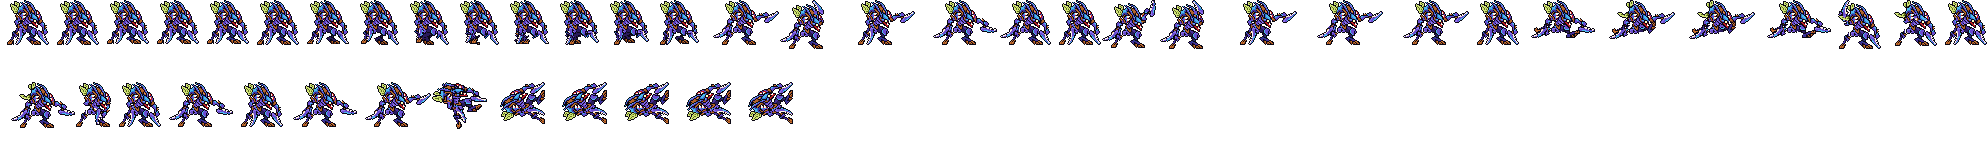
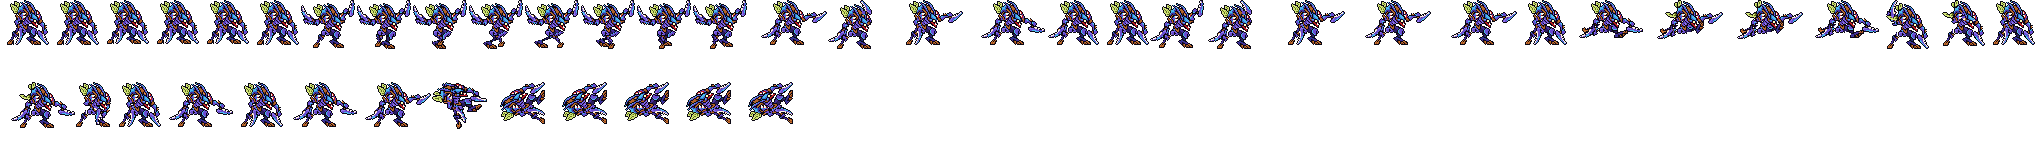
Kha'Zix run v4: both claws raised at his sides (Codex's arm units turned whole), the legs crossing in plain sight, their gaps left open (「修一下吧 还有问题」)

Changed region(s): [[0.0, 0.0, 0.9985, 0.3137], [0.0, 0.549, 0.4056, 0.8366]]

diff --git a/tools/art/fix_khazix_strips.py b/tools/art/fix_khazix_strips.py
@@ -13,11 +13,13 @@ death (rig_samira.py's): frames 1-2 Codex's (struck, knocked back), then the WHO
 image left, the bent insect legs up at the right - first a row above the ground (the bounce), then on it.
 The run was Codex's rows of the legs shifted in place - the feet slid, the legs never crossed, and the two scythe
 claws that hang to the ground in the design (they read as two more legs) stood still: the user, 「走路时腿有点奇怪啊 这是
-交叉步？」. RUN rebuilds it from the design (rig_samira.py's accepted run): the two insect legs cut out (NEAR_LEG, the
-image-left one, and FAR_LEG under the body), each swung from its hip by row shear with the foot moved whole (STRIDE: the
-feet cross, each lifted while it passes under the body, the lift spread along the shin so the foot never comes off),
-the far leg one shade darker, the body (everything else, the pasted head with it) bobbing a row on each landing, and
-the two claws (BACK_CLAW, FRONT_CLAW: their parts under CLAW_ROW) lifted in turn off the ground as the legs pass.
+交叉步？」, then 「腿部移动时缺失模型看不到？」 and 「修一下吧 还有问题」 on a version that only lifted the claws in turn (the legs
+still hid behind them and their gaps were filled into a dark blob). RUN builds it as League's run: both claws raised at
+his sides, the blades up - Codex's own arm units (its masks and shoulder joints) turned whole by 135 degrees (FA, NA) -
+so the two insect legs show; the legs (Codex's masks, the image-left one tucked TUCK columns in under the body) swung
+from their hips by row shear with the foot whole (CYCLE: the feet cross, each lifted while it passes under the body,
+mapped target row -> source row so a stretched leg never breaks), in the design's own colours (the mid leg is already
+a shade darker than the lit left one), the body a row up between the landings; the gaps between the legs stay open.
 Reads codex_strips/khazix_<tag>.png (8x) and khazix_cells.json, writes assets/source/native/khazix_<tag>.png (8x) and
 khazix_cells.json for tools/art/import_native.py. --check only prints what would change.
 """
@@ -39,6 +41,7 @@ import rigkit as K  # noqa: E402
 SRC = os.path.join(ROOT, "assets", "source", "khazix", "codex_strips")
 OUT = os.path.join(ROOT, "assets", "source", "native")
 DESIGN = os.path.join(OUT, "khazix_native.png")
+HEAD = os.path.join(OUT, "khazix_head_1x.png")     # the head pasted in every frame (the strips pack's)
 TAGS = ["idle", "run", "attack", "skill", "skill2", "ult", "hit", "dead"]
 Z = 8
 PIVOT = (64, 88)                 # the design's standing point (the soles on row 99)
@@ -50,99 +53,112 @@ DEAD = ["codex", "codex", ("tilt", 45, -6), ("lying", 1, -8), ("lying", 0, -8), 
         ("lying", 0, -8)]
 
 
-# ---- the run (the design's canvas: soles on row 99)
-NEAR_HIP, NEAR_FOOT = 84, 95        # the image-left leg: from its hip (hidden under the body) to the toe claws' rows
-FAR_HIP, FAR_FOOT = 89, 95
-CLAW_ROW = 88                       # the claws' parts from this row down lift off the ground
-# per frame: near foot dx, near lift, far foot dx, far lift, back-claw lift, front-claw lift, body bob (rows down)
-STRIDE = [(0, 0, 0, 0, 0, 0, 1), (4, 1, -3, 0, 2, 0, 0), (9, 2, -7, 0, 3, 0, 0), (14, 1, -11, 0, 2, 0, 0),
-          (16, 0, -14, 0, 0, 0, 1), (12, 0, -10, 1, 0, 2, 0), (7, 0, -6, 2, 0, 3, 0), (3, 0, -2, 1, 0, 2, 0)]
-BONE = {(242, 220, 212), (255, 246, 240), (200, 168, 168)}     # the claws' edge colours (never part of a leg)
+# ---- the run (the design's canvas: soles on row 99; the masks are Codex's, codex_strips/raw/build_khazix_strips.py)
+def _rows(spec, op):
+    m = np.zeros(op.shape, bool)
+    for y, (x0, x1) in spec.items():
+        m[y, x0:x1 + 1] = True
+    return m & op
 
 
-def leg_masks(d):
-    op = d[..., 3] > 0
-    yy, xx = np.mgrid[0:d.shape[0], 0:d.shape[1]]
-    bone = np.zeros(op.shape, bool)
-    for c in BONE:
-        bone |= (d[..., :3] == c).all(-1)
-    near = op & ~bone & (((yy >= NEAR_HIP) & (xx <= 55)) | ((yy >= 82) & (yy < NEAR_HIP) & (xx >= 52) & (xx <= 55)))
-    far = op & ~bone & (yy >= FAR_HIP) & (xx >= 63) & (xx <= 80)
-    back = op & ~near & ~far & (yy >= CLAW_ROW) & (xx >= 53) & (xx <= 63)
-    front = op & ~near & ~far & (yy >= CLAW_ROW) & (xx >= 75)
-    return near, far, back, front
+ARM_FAR = {**{y: (55, 60) for y in range(75, 77)}, **{y: (55, 61) for y in range(77, 80)},
+           **{y: (56, 62) for y in range(80, 82)}, **{y: (57, 64) for y in range(82, 84)},
+           **{y: (57, 65) for y in range(84, 86)}, **{y: (57, 64) for y in range(86, 88)}, 88: (58, 65), 89: (58, 64),
+           90: (58, 63), 91: (58, 62), 92: (57, 62), 93: (58, 61), 94: (57, 61), 95: (57, 60), 96: (57, 60),
+           97: (56, 59), 98: (56, 59), 99: (56, 58)}          # the image-left arm with its claw, from the shoulder
+ARM_NEAR = {**{y: (78, 84) for y in range(75, 78)}, **{y: (79, 87) for y in range(78, 82)},
+            **{y: (81, 87) for y in range(82, 85)}, **{y: (77, 86) for y in range(85, 88)}, 88: (77, 85), 89: (77, 84),
+            90: (79, 84), 91: (80, 85), 92: (80, 86), 93: (81, 86), 94: (81, 87), 95: (82, 87), 96: (83, 88),
+            97: (84, 88), 98: (85, 88), 99: (86, 88)}         # the image-right arm with its claw
+LEG_LEFT = {**{y: (56, 61) for y in range(83, 86)}, **{y: (52, 59) for y in range(86, 90)},
+            **{y: (50, 56) for y in range(90, 95)}, **{y: (47, 54) for y in range(95, 100)}}
+LEG_MID = {83: (68, 75), **{y: (68, 77) for y in range(84, 89)}, **{y: (64, 77) for y in range(89, 94)},
+           **{y: (64, 81) for y in range(94, 100)}}
+# the hips the image-left arm covered in the design: kept on the body (without the claw's edge colour) so the raised
+# arm leaves no notch and the left leg joins the body
+HIP_BRIDGE = {**{y: (61, 67) for y in range(81, 84)}, **{y: (59, 67) for y in range(83, 87)}}
+SHOULDER_FAR, SHOULDER_NEAR = (56.5, 75.5), (79.5, 75.5)
+FA, NA = -135, 135        # the claws raised at his sides, the blades up (League's run): each arm turned whole
+TUCK = 3                  # the image-left leg's hip moved in under the body (the idle's stance is wide)
+LEGS = {"left": (LEG_LEFT, 84, 95), "mid": (LEG_MID, 84, 94)}   # mask, hip row, ankle row
+# per frame: left (dx, lift), mid (dx, lift), the body up (rows): the feet cross - the left (lit) foot back in frame 1
+# and forward in frame 5, the mid (shaded) one the other way, each lifted while it passes under the body; the body a
+# row up between the landings
+CYCLE = [((0, 0), (0, 0), 0), ((6, 2), (-5, 0), 1), ((12, 3), (-10, 0), 1), ((17, 2), (-15, 0), 1),
+         ((20, 0), (-20, 0), 0), ((15, 0), (-14, 2), 1), ((10, 0), (-8, 3), 1), ((5, 0), (-3, 2), 1)]
+BONE = [(200, 168, 168), (242, 220, 212), (255, 246, 240)]       # the claws' edge colours
+WING_GREEN = [(94, 110, 28), (156, 184, 58), (210, 228, 122)]
 
 
-def darker(d):
-    """Each colour -> the design's next darker colour of a like hue (the outline stays)."""
-    op = d[..., 3] > 0
-    pal = np.unique(d[op][:, :3], axis=0).astype(int)
-    lum = pal @ np.array([299, 587, 114]) / 1000
-    out = {}
-    for c, l in zip(pal, lum):
-        cand = [(p, pl) for p, pl in zip(pal, lum) if pl < l - 6]
-        if l < 30 or not cand:
-            out[tuple(c)] = tuple(c)
-            continue
-        cn = c / max(1, c.sum())
-        out[tuple(c)] = tuple(min(cand, key=lambda q: 400 * np.abs(q[0] / max(1, q[0].sum()) - cn).sum() + (l - q[1]))[0])
-    return out
+def _colours(a, cols):
+    m = np.zeros(a.shape[:2], bool)
+    for c in cols:
+        m |= (a[..., :3] == np.array(c, np.uint8)).all(-1) & (a[..., 3] > 0)
+    return m
 
 
-def swung(d, mask, hip, foot, dx, lift, drop, shade=None):
-    """The leg's squares sheared from the hip: rows above `foot` moved in proportion (dx and lift), the foot whole."""
-    out = np.zeros_like(d)
-    for r, c in zip(*np.nonzero(mask)):
-        t = min(1.0, max(0, r - hip) / max(1, foot - hip))
-        sh = int(math.floor(dx * t + 0.5))
-        up = int(math.floor(lift * t + 0.5))
-        rr, cc = r - up + drop, c + sh
-        if 0 <= rr < d.shape[0] and 0 <= cc < d.shape[1]:
-            px = d[r, c].copy()
-            if shade is not None:
-                px[:3] = shade[tuple(int(v) for v in px[:3])]
-            out[rr, cc] = px
-    return out
+class Run:
+    def __init__(self, d, head, ink):
+        op = d[..., 3] > 0
+        self.d, self.ink = d, ink
+        hm = head[..., 3] > 0
+        far, near = _rows(ARM_FAR, op) & ~hm, _rows(ARM_NEAR, op) & ~hm
+        left = _rows(LEG_LEFT, op) & ~(far | near | hm)
+        mid = _rows(LEG_MID, op) & ~(far | near | hm | left)
+        self.legs = {"left": (left, LEGS["left"][1], LEGS["left"][2]), "mid": (mid, LEGS["mid"][1], LEGS["mid"][2])}
+        bridge = _rows(HIP_BRIDGE, op) & ~hm & ~_colours(d, BONE)
+        base = d.copy()
+        base[far | near | left | mid] = 0
+        base[bridge] = d[bridge]
+        green = _colours(d, WING_GREEN)
+        ring = np.zeros_like(green)
+        for dy in (-1, 0, 1):
+            for dx in (-1, 0, 1):
+                ring |= np.roll(np.roll(green, dy, 0), dx, 1)
+        wing = green | (ring & _colours(d, [tuple(ink)]))
+        wing[69:] = False
+        wing[:, 61:] = False
+        self.wing = np.where(wing[..., None], base, 0).astype(np.uint8)
+        self.torso = base.copy()
+        self.torso[wing] = 0
+        self.far = K.turn(K.Part.from_canvas(d, far, SHOULDER_FAR), FA)
+        self.near = K.turn(K.Part.from_canvas(d, near, SHOULDER_NEAR), NA)
+        self.hm = hm
 
+    def leg(self, name, dx, lift, up, shift=0):
+        """The leg sheared from its hip (the foot whole), the hip rising `up` with the body and the foot `lift` off the
+        ground; each target row takes its source row (a stretched leg repeats a row instead of breaking)."""
+        mask, hip, ankle = self.legs[name]
+        ys, _ = np.nonzero(mask)
+        r0, r1 = int(ys.min()), int(ys.max())
+        t = lambda r: min(1.0, max(0.0, (r - hip) / max(1, ankle - hip)))
+        target = {r: r - int(math.floor(up * (1 - t(r)) + lift * t(r) + 0.5)) for r in range(r0, r1 + 1)}
+        out = np.zeros_like(self.d)
+        for y in range(min(target.values()), max(target.values()) + 1):
+            src = [r for r in range(r0, r1 + 1) if target[r] <= y]
+            r = max(src) if src else r0
+            sh = int(math.floor(dx * t(r) + 0.5)) + shift
+            for c in np.nonzero(mask[r])[0]:
+                if 0 <= c + sh < out.shape[1]:
+                    out[y, c + sh] = self.d[r, c]
+        return out
 
-def new_gaps_filled(a, d, bob, outline):
-    """Gaps the swung legs enclose (between a leg, a claw and the body: the background showed through - the user:
-    「腿部移动时缺失模型看不到？」) take the commonest colour round them; the design's own gaps (beside the jaw) stay."""
-    own = set()
-    for comp in K.holes(K.finish(d, outline, SOLES)):     # with its outline closed, as the idle is
-        own |= {(y + bob, x) for y, x in comp}
-    for comp in K.holes(a):
-        if own & set(comp):
-            continue
-        nb = {}
-        cs = set(comp)
-        for y, x in comp:
-            for dy, dx in K.N4:
-                q = (y + dy, x + dx)
-                if q not in cs and a[q][3] and tuple(int(v) for v in a[q][:3]) != tuple(outline):
-                    key = tuple(int(v) for v in a[q])
-                    nb[key] = nb.get(key, 0) + 1
-        col = np.array(max(nb, key=nb.get) if nb else tuple(outline) + (255,), np.uint8)
-        for y, x in comp:
-            a[y, x] = col
-    return a
-
-
-def run_frame(d, k, masks, shade):
-    near, far, back, front = masks
-    nd, nl, fd, fl, bl, frl, bob = STRIDE[k]
-    rest = d.copy()
-    rest[near | far | back | front] = 0
-    out = np.zeros_like(d)
-    K.put(out, swung(d, far, FAR_HIP, FAR_FOOT, fd, fl, bob, shade), 0, 0)
-    K.put(out, K.shifted(rest, 0, bob), 0, 0)
-    claw = lambda m, lift: K.shifted(np.where(m[..., None], d, 0).astype(np.uint8), 0, bob - lift)
-    K.put(out, claw(back, bl), 0, 0)
-    # the near leg over the back claw (it is the leg nearest the viewer), under the front claw
-    K.put(out, swung(d, near, NEAR_HIP, NEAR_FOOT, nd, nl, bob), 0, 0)
-    K.put(out, claw(front, frl), 0, 0)
-    out[SOLES + 1:] = 0
-    return out
+    def frame(self, k):
+        """Back to front: the shaded mid leg, the lit left leg, the wings, the raised far arm (over the wings, under
+        the torso), the torso with the pasted head, the raised near arm."""
+        (ldx, llift), (mdx, mlift), up = CYCLE[k]
+        out = np.zeros_like(self.d)
+        K.put(out, self.leg("mid", mdx, mlift, up), 0, 0)
+        K.put(out, self.leg("left", ldx, llift, up, TUCK), 0, 0)
+        K.put(out, K.shifted(self.wing, 0, -up), 0, 0)
+        K.place(out, self.far, (SHOULDER_FAR[0], SHOULDER_FAR[1] - up))
+        K.put(out, K.shifted(self.torso, 0, -up), 0, 0)
+        K.place(out, self.near, (SHOULDER_NEAR[0], SHOULDER_NEAR[1] - up))
+        out[SOLES + 1:] = 0
+        head = np.zeros_like(self.hm)
+        head[:head.shape[0] - up] = self.hm[up:]
+        # pinholes of one square only: the gaps between the legs stay open (rigkit.finish would fill 2-3)
+        return K.finish(out, self.ink, SOLES, keep=head, pinholes=1)
 
 
 def at1x(path):
@@ -185,19 +201,20 @@ def main():
     cw, ch = cells["cell"]
     design = at1x(DESIGN) if Image.open(DESIGN).size[0] != 128 else np.asarray(Image.open(DESIGN).convert("RGBA")).copy()
     ink = outline_colour(design)
+    head = np.asarray(Image.open(HEAD).convert("RGBA"))
     for tag in TAGS:
         sheet = at1x(os.path.join(SRC, f"khazix_{tag}.png"))
         if tag == "run":
             cols = sheet.shape[1] // cw
-            masks, shade = leg_masks(design), darker(design)
-            for i in range(len(STRIDE)):
-                fig = new_gaps_filled(K.finish(run_frame(design, i, masks, shade), ink, SOLES), design, STRIDE[i][6], ink)
+            run = Run(design, head, ink)
+            for i in range(len(CYCLE)):
+                fig = run.frame(i)
                 X, Y = (i % cols) * cw, (i // cols) * ch
                 px, py = cells["tags"][tag][i]["pivot"]
                 cell = np.zeros((ch, cw, 4), np.uint8)
                 K.put(cell, fig, px - PIVOT[0], py - PIVOT[1])
                 sheet[Y:Y + ch, X:X + cw] = cell
-            print("run: 8 frames rebuilt from the design (crossing legs, claws lifted in turn)")
+            print("run: 8 frames rebuilt from the design (claws raised, crossing legs)")
         if tag == "dead":
             cols = sheet.shape[1] // cw
             for i, what in enumerate(DEAD):
